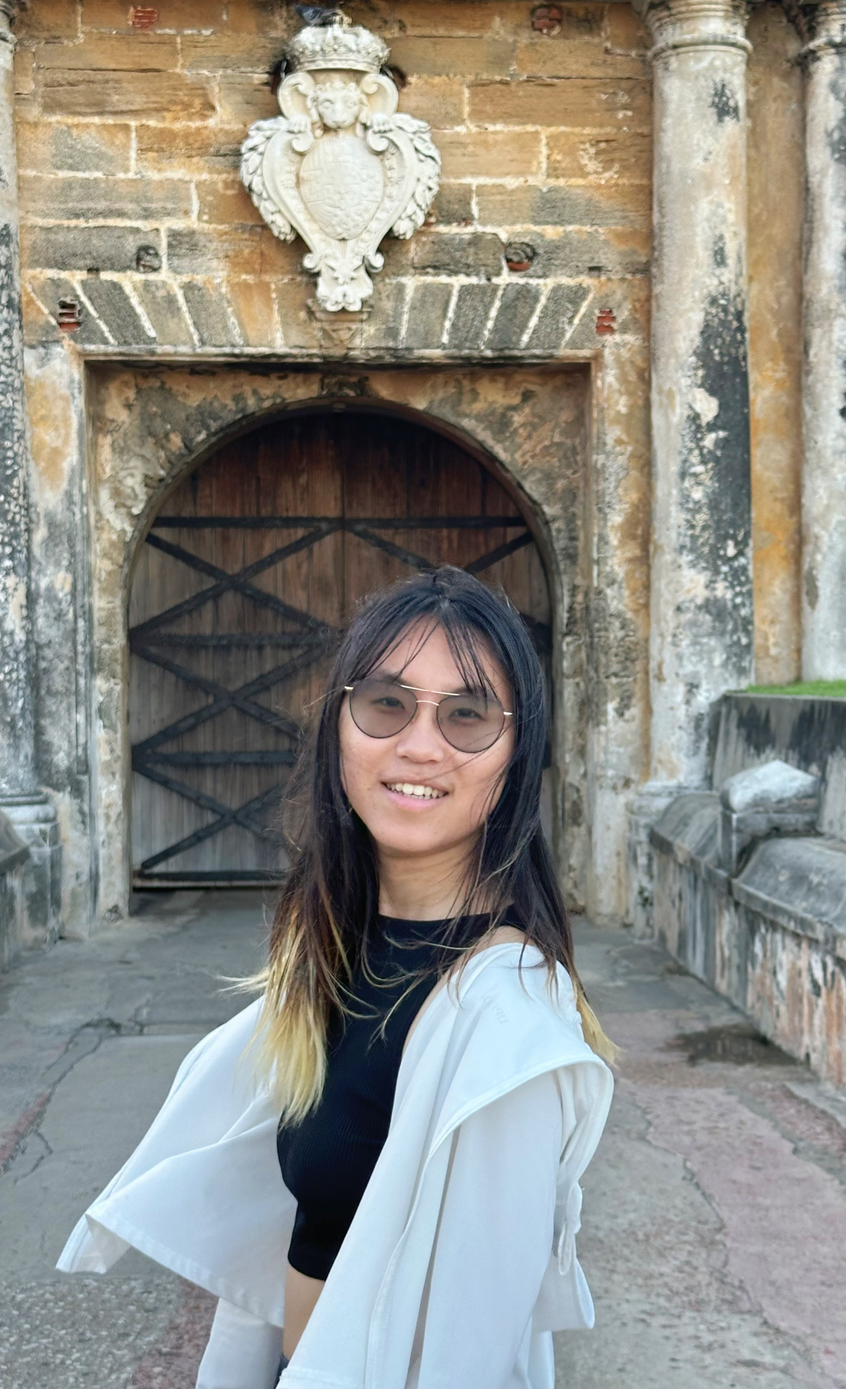
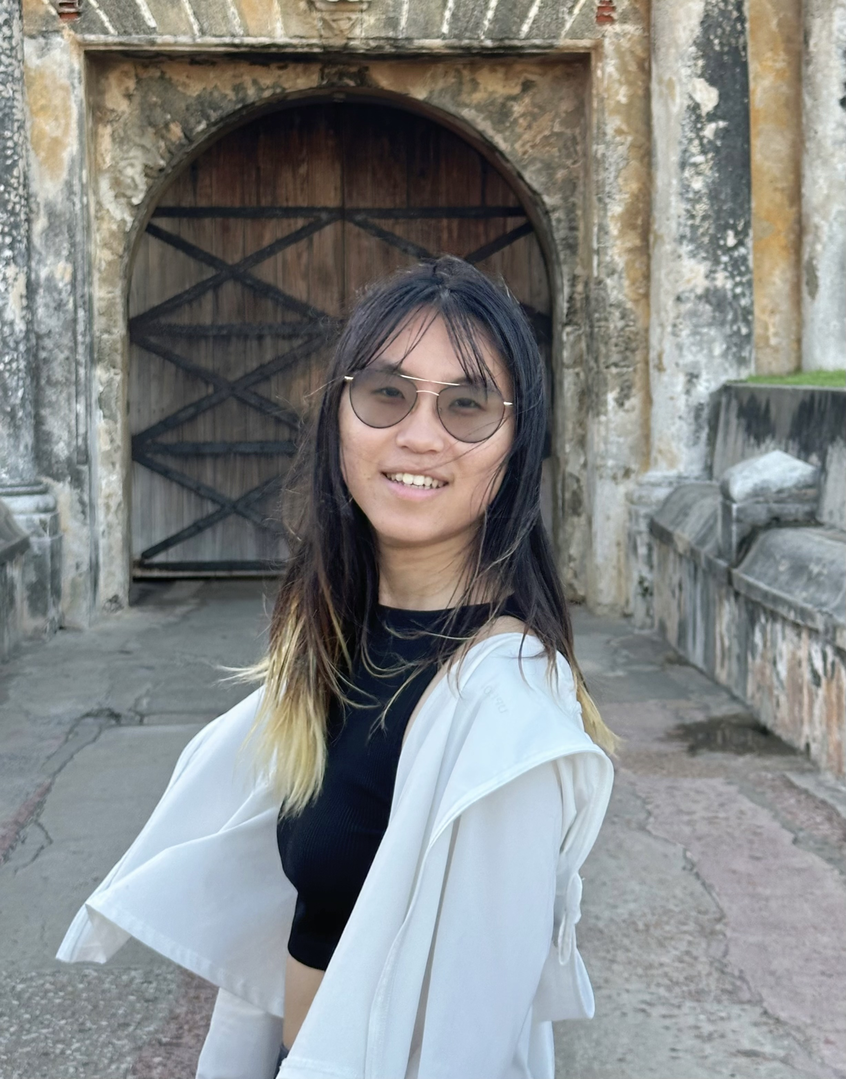
change description

diff --git a/_layouts/default.html b/_layouts/default.html
@@ -38,7 +38,7 @@
       <header>
         <h1><a href="{{ site.url }}">Jingwen Liu</a></h1>
         
-        <img src="/assets/img/photo.jpg" alt="My Face" width="200" height="300"/>
+        <img src="/assets/img/photo.jpg" alt="My Face" width="200" height="255"/>
 
         <p>PhD Student in <a href="https://www.cs.columbia.edu//">Computer Science</a>
           <br>
